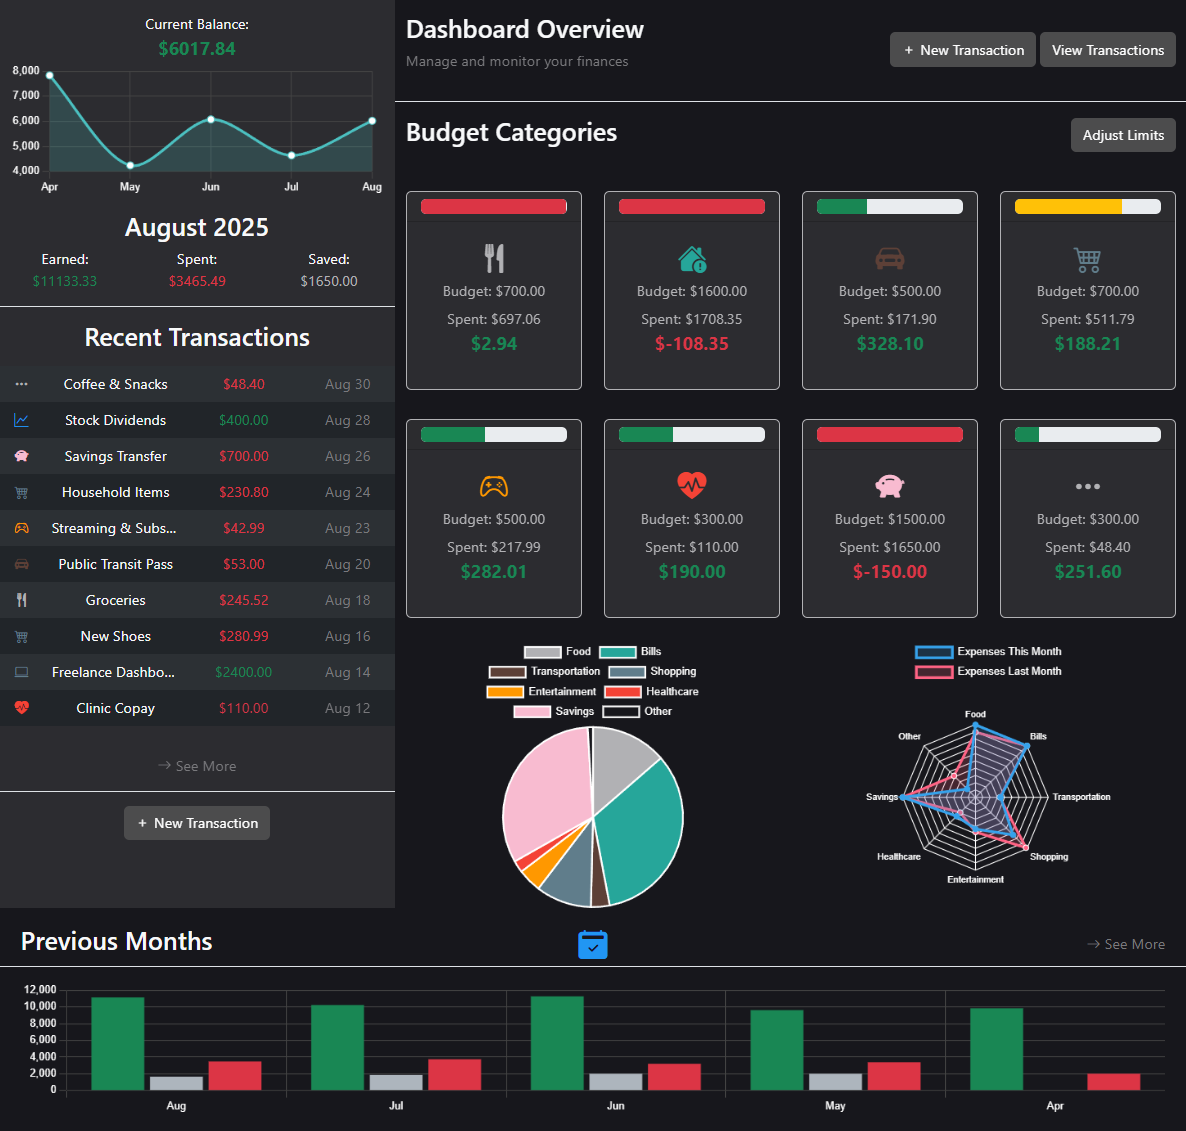
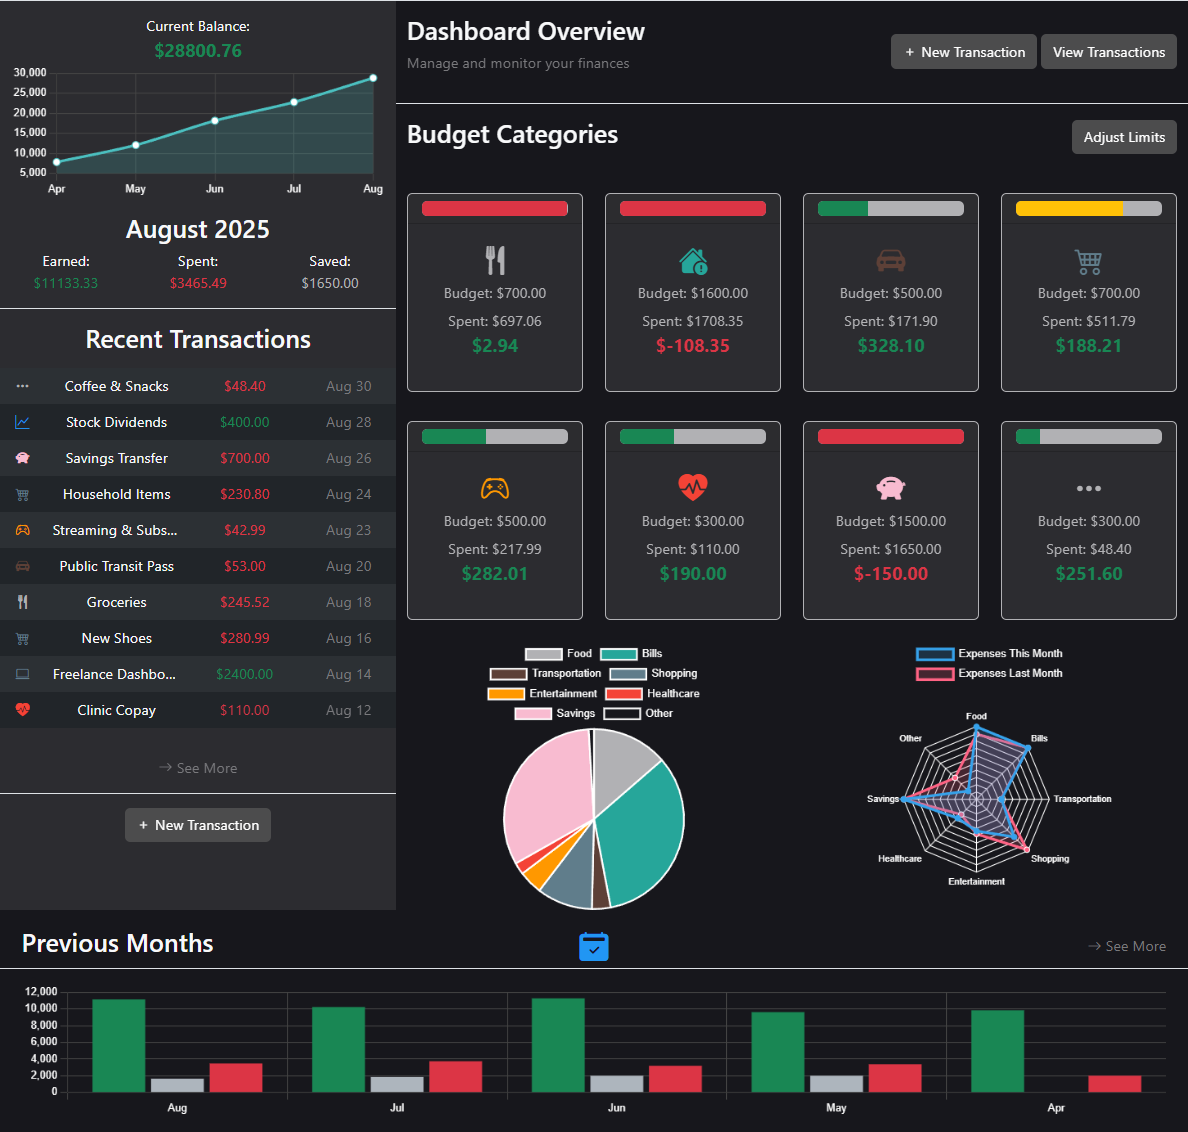
improved budget and value formats

diff --git a/project/users/templates/dashboard.html b/project/users/templates/dashboard.html
@@ -67,9 +67,9 @@
                                 <div class="col-12">
                                     <div class="lead fw-bold">
                                         {% if balance > 0 %}
-                                            <span class="text-success">${{ balance|floatformat:2 }}</span>
+                                            <span class="text-success">${{ balance|floatformat:"2g" }}</span>
                                         {% else %}
-                                            <span class="text-danger">${{ balance|floatformat:2 }}</span>
+                                            <span class="text-danger">${{ balance|floatformat:"2g" }}</span>
                                         {% endif %}
                                     </div>
                                 </div>
@@ -92,7 +92,7 @@
                                     Earned:
                                 </div>
                                 <div class="col-12">
-                                    <span class="text-success">${{ summary.total_income }}</span>
+                                    <span class="text-success">${{ summary.total_income|floatformat:"2g" }}</span>
                                 </div>
                             </div>
                         </div>
@@ -102,7 +102,7 @@
                                     Spent:
                                 </div>
                                 <div class="col-12">
-                                    <span class="text-danger">${{ summary.total_expenses }}</span>
+                                    <span class="text-danger">${{ summary.total_expenses|floatformat:"2g" }}</span>
                                 </div>
                             </div>
                         </div>
@@ -112,7 +112,7 @@
                                     Saved:
                                 </div>
                                 <div class="col-12">
-                                    <span class="text-palette-five">${{ summary.total_savings }}</span>
+                                    <span class="text-palette-five">${{ summary.total_savings|floatformat:"2g" }}</span>
                                 </div>
                             </div>
                         </div>
@@ -131,7 +131,7 @@
                                     {% else %}
                                     <td class="text-danger">
                                     {% endif %}
-                                        ${{ transaction.amount }}
+                                        ${{ transaction.amount|floatformat:"2g" }}
                                     </td>
                                     <td class="text-palette-four">{{ transaction.created_at|date:"M d" }}</td>
                                 </tr>
@@ -182,9 +182,9 @@
                                         <div class="col-12">
                                             <div class="lead fw-bold">
                                                 {% if balance > 0 %}
-                                                    <span class="text-success">${{ balance|floatformat:2 }}</span>
+                                                    <span class="text-success">${{ balance|floatformat:"2g" }}</span>
                                                 {% else %}
-                                                    <span class="text-danger">${{ balance|floatformat:2 }}</span>
+                                                    <span class="text-danger">${{ balance|floatformat:"2g" }}</span>
                                                 {% endif %}
                                             </div>
                                         </div>
@@ -209,7 +209,7 @@
                                             Earned:
                                         </div>
                                         <div class="col-12">
-                                            <span class="text-success">${{ summary.total_income }}</span>
+                                            <span class="text-success">${{ summary.total_income|floatformat:"2g" }}</span>
                                         </div>
                                     </div>
                                 </div>
@@ -219,7 +219,7 @@
                                             Spent:
                                         </div>
                                         <div class="col-12">
-                                            <span class="text-danger">${{ summary.total_expenses }}</span>
+                                            <span class="text-danger">${{ summary.total_expenses|floatformat:"2g" }}</span>
                                         </div>
                                     </div>
                                 </div>
@@ -229,7 +229,7 @@
                                             Saved:
                                         </div>
                                         <div class="col-12">
-                                            <span class="text-palette-five">${{ summary.total_savings }}</span>
+                                            <span class="text-palette-five">${{ summary.total_savings|floatformat:"2g" }}</span>
                                         </div>
                                     </div>
                                 </div>
@@ -259,23 +259,44 @@
                                 <div class="card-body text-center">
                                     <i style="font-size: 2em;" class="bi {{ budget.category|category_icon }} {{ budget.category|category_color }}"></i>
                                     <div class="card-title text-palette-five">
-                                        Budget: 
-                                        {% if budget.remaining is None %}
-                                            Unlimited
-                                        {% else %}
-                                            ${{ budget.limit }}
-                                        {% endif %}
+                                        <div class="row">
+                                            <div class="col-12">
+                                                Budget:
+                                            </div>
+                                            <div class="col-12">
+                                                <span class="fw-bold">
+                                                    {% if budget.remaining is None %}
+                                                        Unlimited
+                                                    {% else %}
+                                                        ${{ budget.limit|floatformat:"2g" }}
+                                                    {% endif %}
+                                                </span>
+                                            </div>
+                                        </div>
                                     </div>
-                                    <div class="card-text text-palette-five">Spent: ${{ budget.spent }}</div>
-                                    {% if budget.remaining is not None %}
-                                        <div class="card-text lead fw-bold">
-                                            {% if budget.remaining > 0 %}
-                                                <span class="text-success">${{ budget.remaining }}</span>
-                                            {% else %}
-                                                <span class="text-danger">${{ budget.remaining }}</span>
+                                    <div class="card-text text-palette-five">
+                                        <div class="row">
+                                            <div class="col-12">
+                                                Spent:
+                                            </div>
+                                            <div class="col-12">
+                                                <span class="fw-bold">
+                                                    ${{ budget.spent|floatformat:"2g" }}
+                                                </span>
+                                            </div>
+                                            {% if budget.remaining is not None %}
+                                                <div class="col-12">
+                                                    <div class="card-text lead fw-bold">
+                                                        {% if budget.remaining > 0 %}
+                                                            <span class="text-success">${{ budget.remaining|floatformat:"2g"}}</span>
+                                                        {% else %}
+                                                            <span class="text-danger">${{ budget.remaining |floatformat:"2g"}}</span>
+                                                        {% endif %}
+                                                    </div>
+                                                </div>
                                             {% endif %}
                                         </div>
-                                    {% endif %}
+                                    </div>
                                 </div>
                             </div>
                         </div>
@@ -294,7 +315,7 @@
                         <!-- Budget Radar Chart -->
                         <div class="col-md-6">
                             <div class="mx-auto">
-                                <canvas class="mx-auto"  id="budget-radar"
+                                <canvas class="mx-auto" id="budget-radar"
                                     data-labels='{{ budget_labels|safe }}'
                                     data-this-month='{{ this_month_data|safe }}'
                                     data-last-month='{{ last_month_data|safe }}'>

diff --git a/project/transactions/templates/transaction_list.html b/project/transactions/templates/transaction_list.html
@@ -81,7 +81,7 @@
                                     {% else %}
                                     <td class="text-danger">
                                     {% endif %}
-                                        ${{ transaction.amount }}
+                                        ${{ transaction.amount|floatformat:"2g" }}
                                     </td>
                                     <td class="text-truncate"><i class="bi {{ transaction.category|category_icon }}  {{ transaction.category|category_color }}"></i> {{ transaction.get_category }}</td>
                                     <td class="text-palette-four text-truncate">{{ transaction.created_at|date:"M d, Y" }}</td>

diff --git a/CHANGELOG.md b/CHANGELOG.md
@@ -112,3 +112,10 @@ All notable changes to this project will be documented in this file.
 
 - balance chart calculations
 - blank transaction title
+
+## 2025-08-17
+
+### Changed
+
+- grouped numbers by thousands
+- budget labels and values in separate columns
